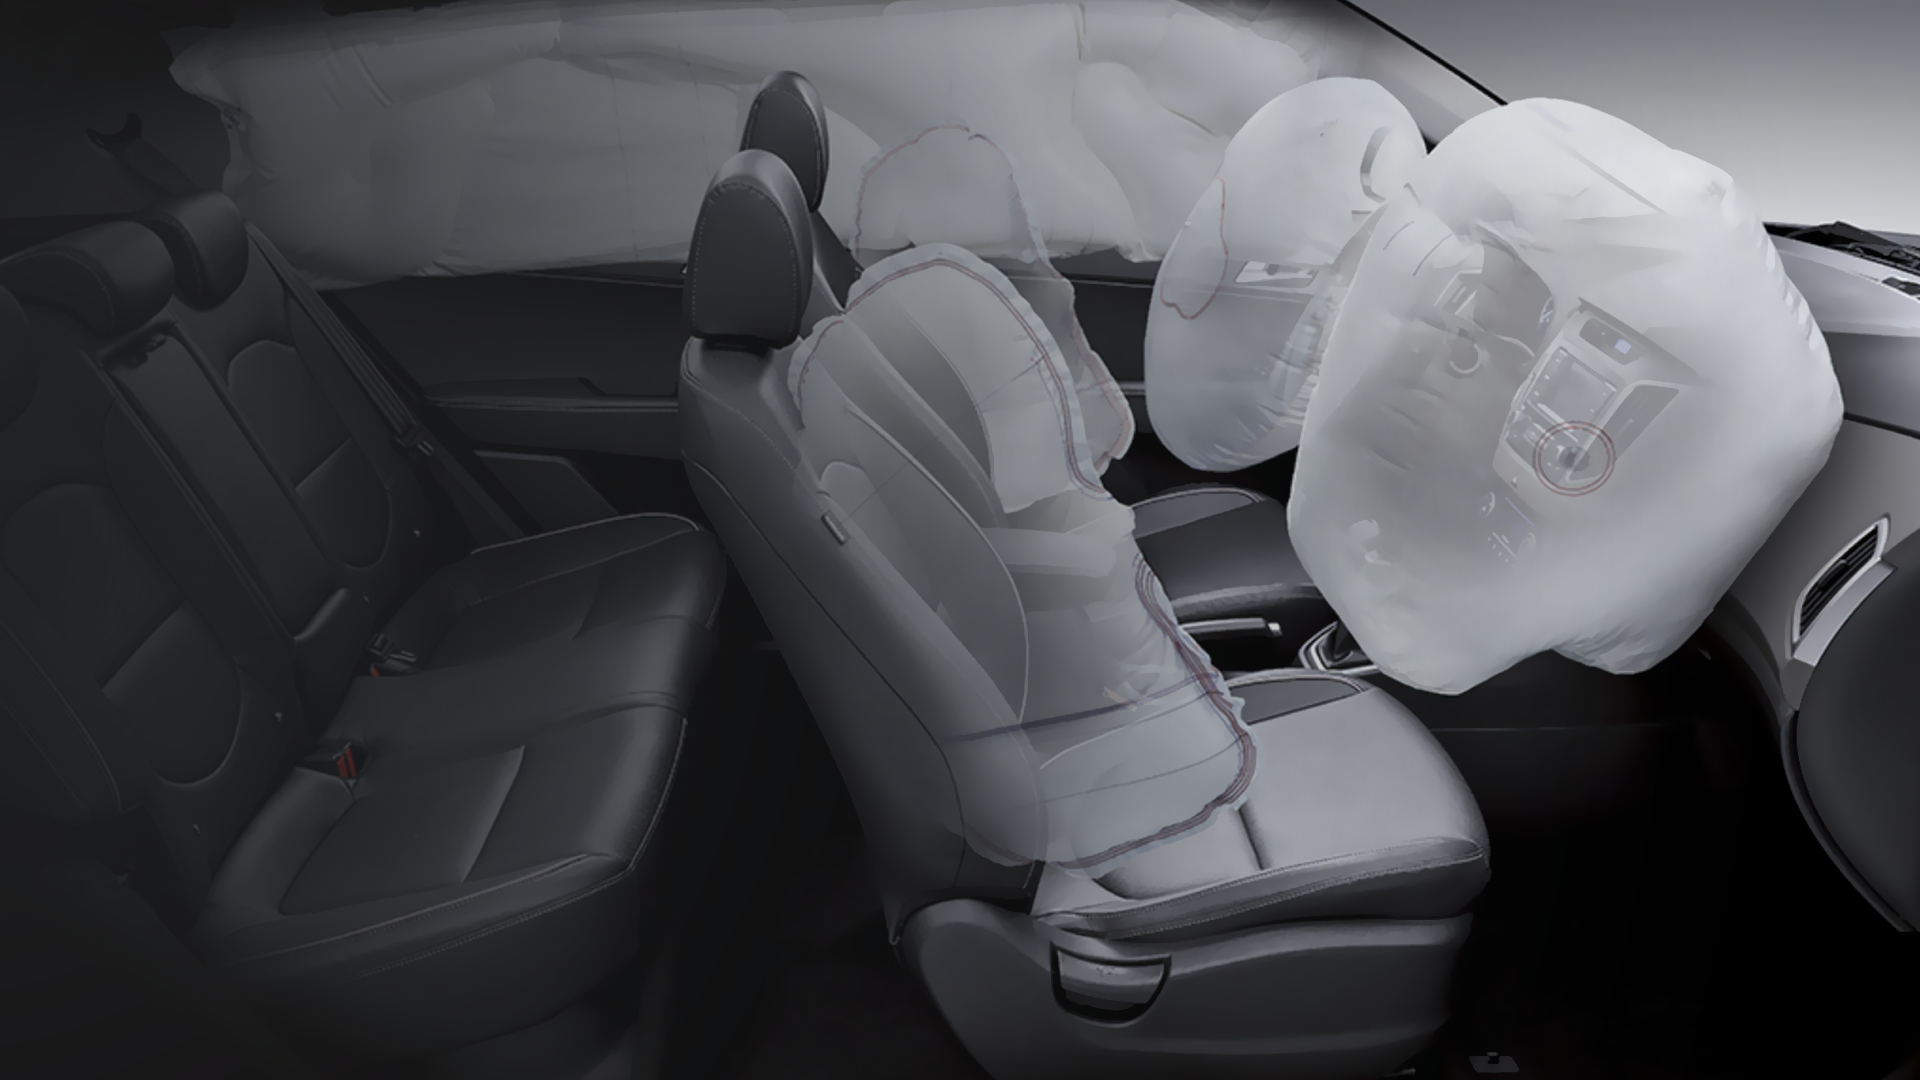
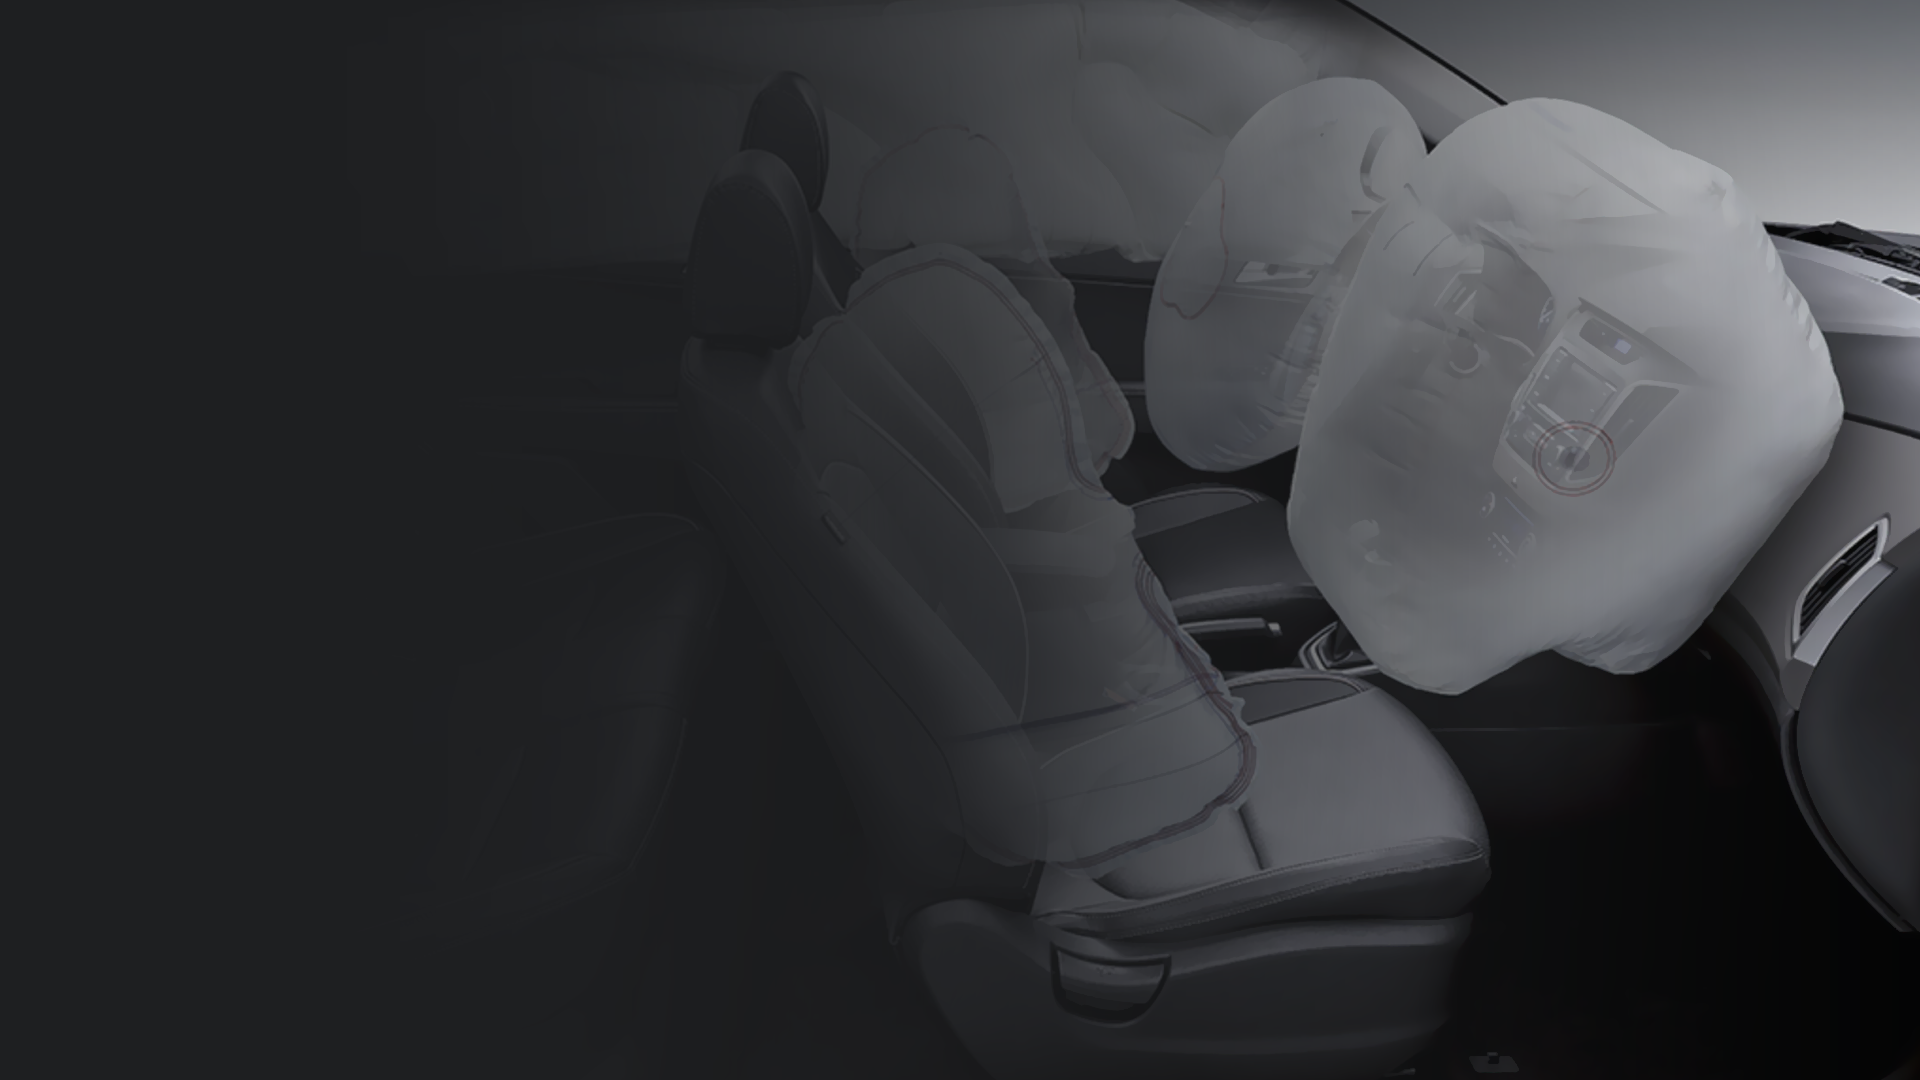
update
update

diff --git a/topkar.html b/topkar.html
@@ -33,7 +33,7 @@
 
 <body>
   <a class="btn btn-light" style="position: fixed; right: 10px; bottom: 10px;z-index: 5000;" href="#top" title="VOLTAR AO TOPO"><i class="fas fa-angle-double-up"></i></a>
-  <div class="container-fluid hero4 pt-5 pb-5">
+  <div class="container-fluid hero5 pt-5 pb-5">
     <div class="container pt-5 pb-5">
       <div class="row">
         <div class="col">
@@ -42,9 +42,6 @@
           <p>A cinta de Airbag ou (Hard Disc) como também é conhecida serve para transmitir às funções do volante para o carro como, por exemplo, a Buzina, Controles de som, piloto automático, seta e etc. Também, claro, tem a função, de disparar o Airbag.</p>
           <a class="btn btn-outline-light" href="cadastro.html" role="button"><i class="fas fa-feather-alt"></i>
             Cadastre-se!</a>
-        </div>
-        <div class="col">
-          <img src="assets/airbags/airbag.png" width="80%" alt="">
         </div>
       </div>
     </div>
